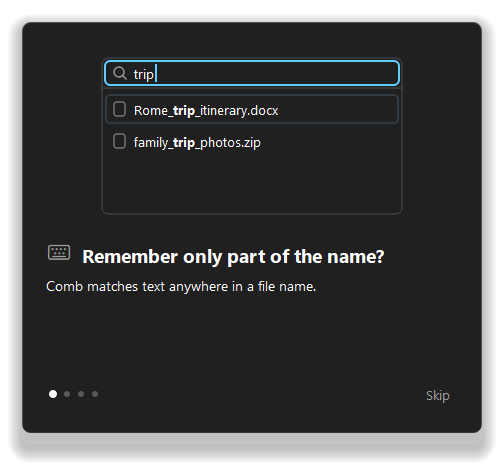
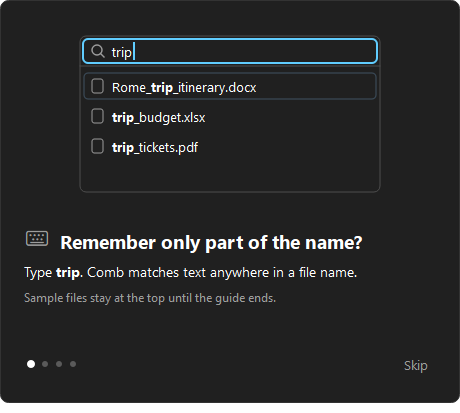
README: beta notice, folder results, ZIP and offline-drive marks, ?app/?folder, new first-run guide

Changed region(s): [[0.0, 0.0, 1.0, 0.9879], [0.1522, 0.0872, 0.8217, 0.3777]]

diff --git a/README.md b/README.md
@@ -2,6 +2,8 @@
 
 Comb is a Windows file search launcher that stays in the system tray and opens instantly with a hotkey.
 
+Comb is in beta (0.2.0 Beta). Some situations have not been tested yet. If something does not work, please report it with your log files (Settings > About > Open log folder) to luis.tjdongin@gmail.com.
+
 ![Search window](docs/images/search.png)
 *The search window: typing "report" lists matching files from several folders; a document with four dated versions is shown as one row.*
 
@@ -22,6 +24,10 @@ Comb provides file name and content search (including PDF, Office documents, and
 - **Preview without opening an app:** press Space (or Ctrl+Y). Supported previews include Word, Excel and PowerPoint files (also older .doc/.xls/.ppt), PDF, images, text and code, Markdown, web pages, email files (.eml/.msg), ZIP archives, fonts, EPUB, Hangul (.hwp/.hwpx), audio and video. Space preview is also available in File Explorer and on the desktop (can be disabled in settings).
 - **Act on a result right away:** open its folder, copy the file or its path, rename (F2), move to the Recycle Bin with undo (Ctrl+Z), or drag and drop files directly from the search results into another app.
 - **Logical search results order:** files are never ranked newer than a date written in their name; files marked as copies ("Copy of...", "... - Copy", Google Drive copies) go below the originals; the same file in different folders (same name and same size) is shown as one row; files in the same folder whose names differ only by a date (for example report_260101.pdf and report_260201.pdf) are shown as one row with the other versions under it.
+- Matching folders also appear in search results, below the files.
+- Files inside a compressed (zipped) folder are marked with a zipper icon and the note "Compressed (zipped) folder".
+- Files on a drive that is not connected (for example an unplugged USB drive or an unavailable network drive) are dimmed and listed below the other files; opening one asks you to connect the drive.
+- If a file was deleted or moved after indexing, Comb says so instead of failing to open it.
 - **Stays in the system tray** and opens instantly with Alt+Space. Optional features (semantic search, OCR, browser history, web suggestions) do nothing until you turn them on.
 - **Works offline.** Searching, indexing, previews, semantic search and OCR all run on your PC.
 - **Open Windows applications and settings.**
@@ -40,10 +46,10 @@ The latest release can always be found here: [Latest Release](https://github.com
 
 ## Installation
 
-Comb installs per-user to `%LOCALAPPDATA%\Programs\Comb` and does not require administrator rights. The installer presents the Terms of Use for agreement and offers an optional desktop shortcut. On its first run, Comb will prompt whether it should start automatically with Windows.
+Comb installs per-user to `%LOCALAPPDATA%\Programs\Comb` and does not require administrator rights. The installer presents the Terms of Use for agreement and offers an optional desktop shortcut. On its first run, Comb will prompt whether it should start automatically with Windows. The first-run guide now lets you try each feature on four sample files that Comb creates for the guide and removes when it ends; it also lets you pick the folders whose document contents Comb searches.
 
 ![First-run guide](docs/images/onboarding.png)
-*A first-run guide card.*
+*First-run guide: try searching by part of a name on sample files.*
 
 **Note on Windows SmartScreen**: The installer is not currently code-signed. During the first manual installation, Windows SmartScreen may display a "Windows protected your PC" warning. To continue, select "More info" and then "Run anyway". Automatic updates do not trigger this warning.
 
@@ -82,7 +88,7 @@ Press `Alt+Space` (default hotkey) to open Comb.
 | `word` | Search for files containing the word |
 | `"exact phrase"` | Search for the exact contiguous phrase |
 | `-word` | Exclude files containing the word |
-| `?pdf`, `?image`, `?doc`, `?sheet`, `?slide`, `?video`, `?audio`, `?zip` | Filter by file type |
+| `?pdf`, `?image`, `?doc`, `?sheet`, `?slide`, `?video`, `?audio`, `?zip`, `?app`, `?folder` | Filter by file type, apps (incl. Windows settings) or folders |
 | `date:today`, `date:yesterday`, `date:this-week`, `date:last-week`, `date:this-month`, `date:last-month`, `date:this-year`, `date:last-year`, `date:YYYY-MM-DD` | Filter by modification date |
 | `size:>10mb`, `size:<1gb` | Filter by file size (supports b, kb, mb, gb, o, ko, mo, go) |
 | `in:Downloads`, `in:Desktop`, `in:Documents`, or arbitrary path names | Filter by folder name |
@@ -178,4 +184,4 @@ For inquiries, contact: luis.tjdongin@gmail.com
 
 ## License
 
-The software license will be announced prior to the public release. The Terms of Use are presented in the installer and remain accessible within Comb's settings under the "About" tab. Third-party open-source licenses are included with the installed application at **Settings > About > Open-source licenses**.
+The software license will be announced prior to the public release. The Terms of Use are presented in the installer and remain accessible within Comb's settings under the "About" tab. The open-source licenses of the components Comb uses can be read in Settings > About (list and full text).
